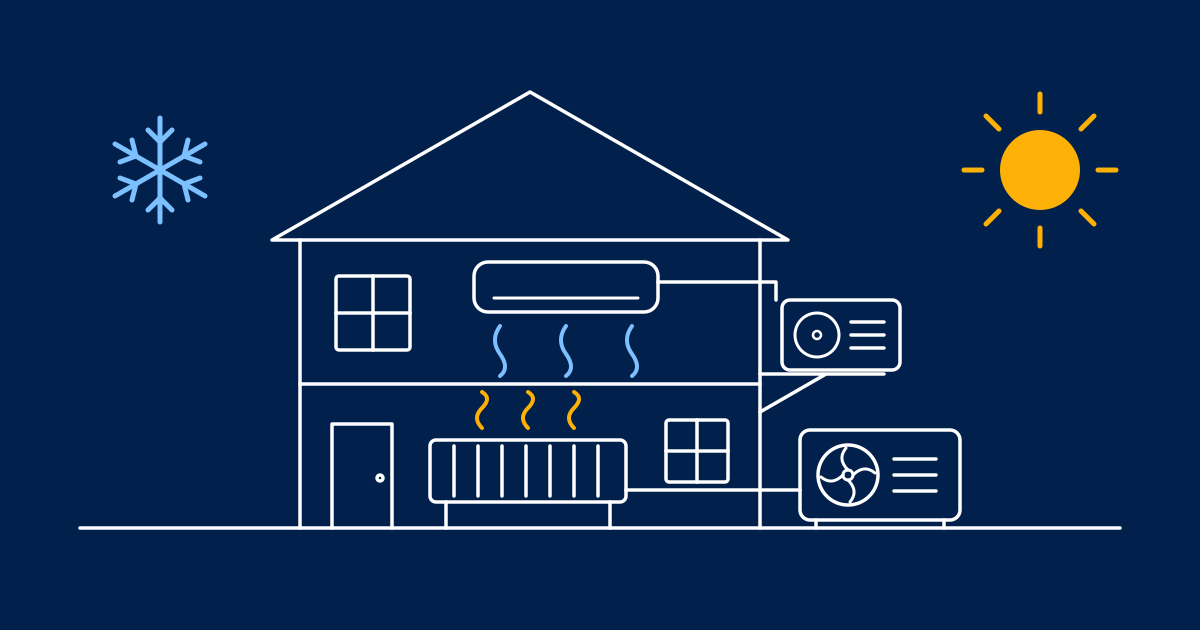
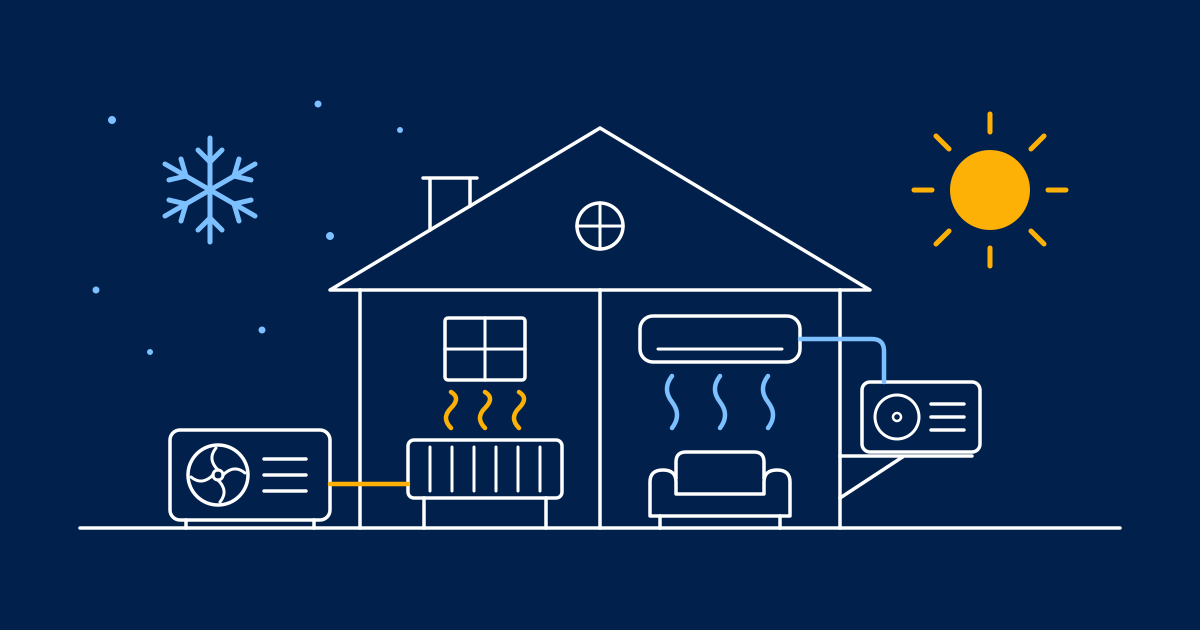
artwork: put winter and summer side by side in the cooling preview

diff --git a/README.md b/README.md
@@ -39,9 +39,10 @@ from its editable source, `device-conflict-og.svg`, with
 It contains no logo or text.
 
 `cooling-overtakes-heating-og.png` is the article-specific preview and figure
-for the cooling insight: a cut-away home with a radiator warmed by a heat pump
-outside, and an air conditioner upstairs blowing cool air, with its outdoor unit
-on the wall; a snowflake and a sun stand for winter and summer. It is exported
+for the cooling insight: a cut-away home with two rooms. On the left, under a
+snowflake and falling snow, a heat pump outside warms a radiator. On the right,
+under the sun, an air conditioner blows cool air, with its outdoor unit on the
+wall. It is exported
 at 1200 by 630 from its editable source, `cooling-overtakes-heating-og.svg`, with
 `rsvg-convert -w 1200 -h 630 cooling-overtakes-heating-og.svg -o cooling-overtakes-heating-og.png`.
 It contains no logo or text. Like the other dark insight previews, it draws its
